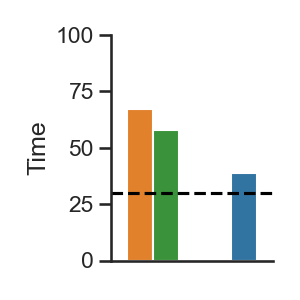
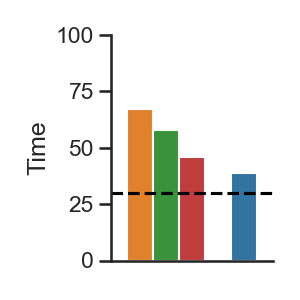
Ran CF Partial Unbalanced

Changed region(s): [[0.6, 0.51, 0.69, 0.87]]

diff --git a/gym_cooking/envs/overcooked_environment.py b/gym_cooking/envs/overcooked_environment.py
@@ -199,7 +199,7 @@ class OvercookedEnvironment(gym.Env):
         elif typeUsed == "none":
             return [InvincibleWaiter(), InvincibleWaiter()]
         elif typeUsed == "unbalanced":
-            return [InvincibleWaiter(), Chopper()]
+            return [FryingWaiter(), ExceptionalChefMerger()]
         elif typeUsed == "three":
             if num_agents == 2:
                 return [ChoppingWaiter(), ExceptionalChefMerger()]

diff --git a/gym_cooking/main.py b/gym_cooking/main.py
@@ -91,7 +91,7 @@ def roleAssignmentAlgorithm(typeUsed, num_agents):
     elif typeUsed == "none":
         return [InvincibleWaiter(), InvincibleWaiter()]
     elif typeUsed == "unbalanced":
-        return [InvincibleWaiter(), Chopper()]
+        return [FryingWaiter(), ExceptionalChefMerger()]
     elif typeUsed == "three":
         if num_agents == 2:
             return [ChoppingWaiter(), ExceptionalChefMerger()]
